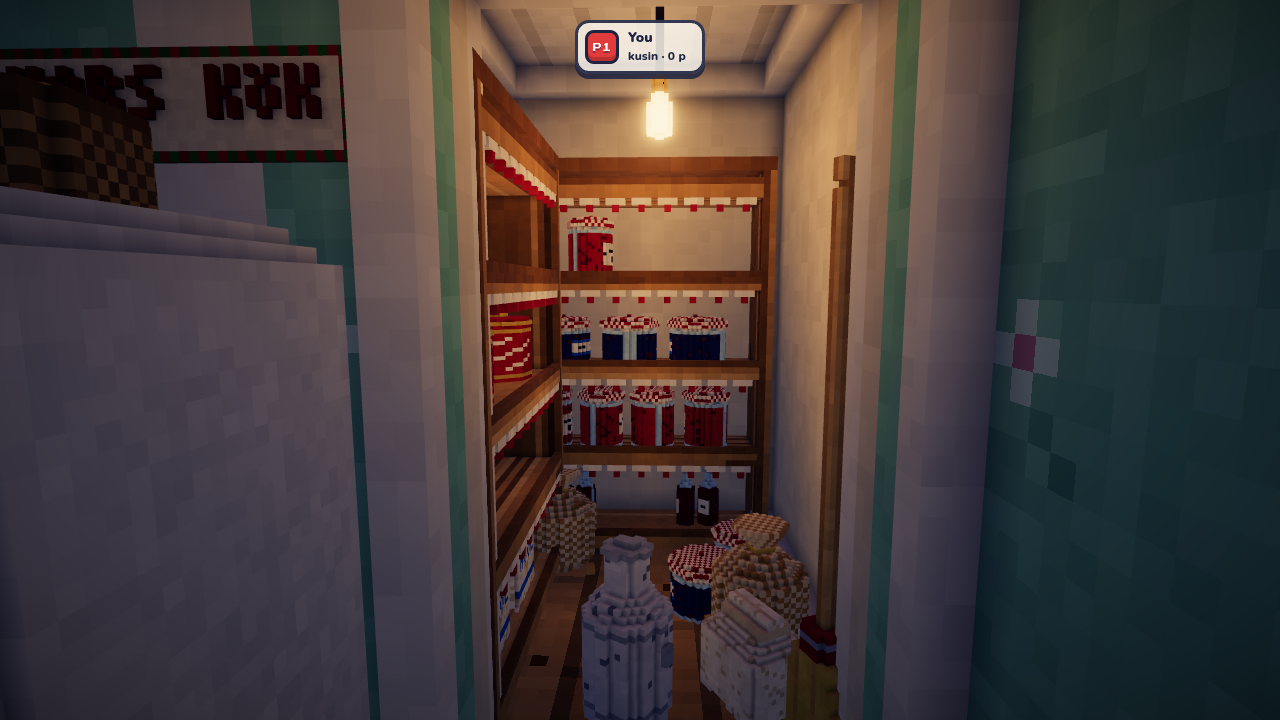
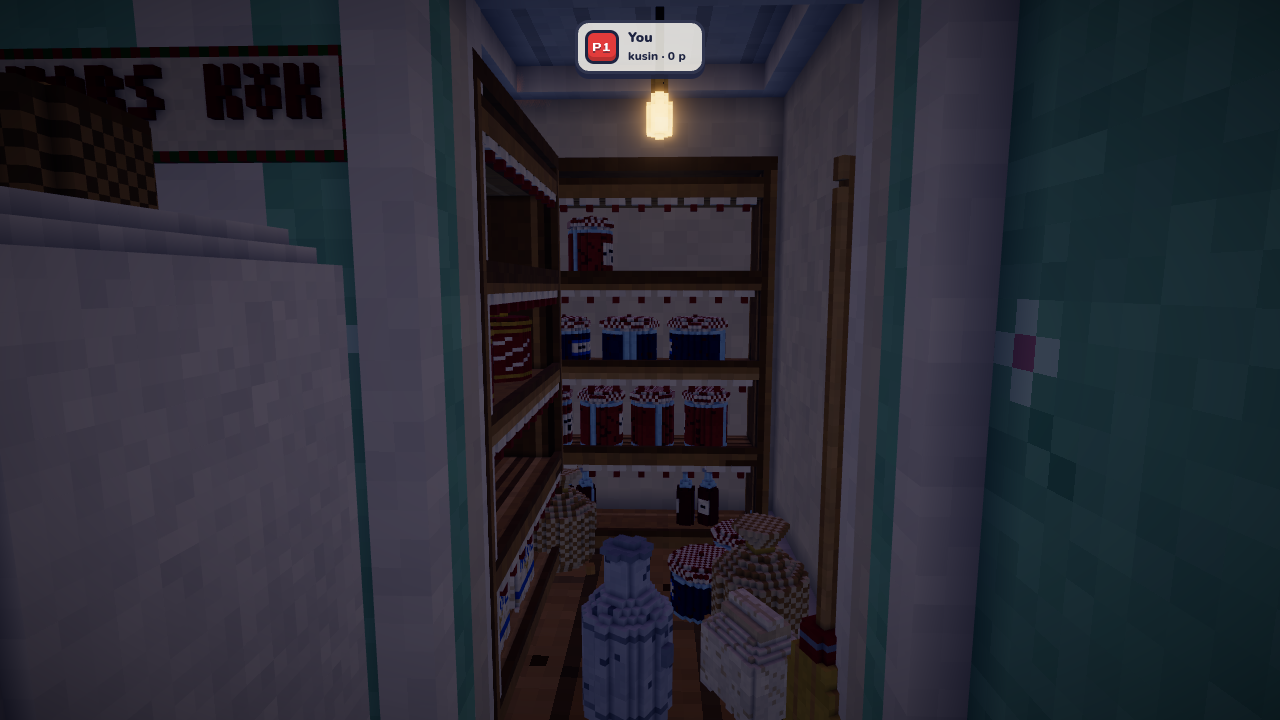
Ett blockljus för huset och jordkällaren; lyktans handtag sitter fast
A stage has one block light: the cellar's own replaced the house's and
every room went dark. Both volumes are now pieces of one light, the
lantern one of its lights.

Claude-Session: https://claude.ai/code/session_01Y6MZe7NhWEZPxEuSNh2RSa

diff --git a/scene.ts b/scene.ts
@@ -33,7 +33,6 @@ function geometry(m: Model): BufferGeometry {
 export class KitchenScene {
   readonly root = new Group();
   readonly light: BlockLight;
-  private cellarLight!: BlockLight;
   readonly kusin: Avatar;
   readonly vatte: Avatar;
   private readonly geos: BufferGeometry[] = [];
@@ -56,9 +55,13 @@ export class KitchenScene {
     hm.position.set(...HOUSE_AT);
     hm.castShadow = hm.receiveShadow = true;
     this.root.add(hm);
-    this.light = view.blockLight(house, { voxel: HV, at: { x: HOUSE_AT[0], y: HOUSE_AT[1], z: HOUSE_AT[2] } });
+    // One block light over the house and the root cellar together (a stage has one).
+    const cellar = this.buildCellar();
+    this.light = view.blockLight([
+      { vol: house, at: { x: HOUSE_AT[0], y: HOUSE_AT[1], z: HOUSE_AT[2] } },
+      { vol: cellar, at: { x: CELLAR_AT[0], y: CELLAR_AT[1], z: CELLAR_AT[2] } },
+    ], { voxel: HV });
     this.addLights();
-    this.buildCellar();
 
     this.buildGarden();
     this.buildProps();
@@ -101,6 +104,7 @@ export class KitchenScene {
     L.add({ ...L.cell(-4.5, 1.8, 10.1), color: '#ffcf8a', reach: 36, strength: 0.6, group: 1 });        // the bedroom's lamp
     L.add({ ...L.cell(-2.25, 0.85, 11.17), color: '#ffcf8a', reach: 16, strength: 0.6, group: 1 });     // the bedside lamp
     L.add({ ...L.cell(7.2, 1.8, 10.1), color: '#ffe2b0', reach: 38, strength: 0.7, group: 1 });         // the sewing room's lamp
+    L.add({ ...L.cell(-8.9, -1.55, -7.6), color: '#ffc070', reach: 30, strength: 0.95, group: 1 });      // the root cellar's lantern
     for (const [i, w] of WINDOW_LIST.entries()) {
       const mid = (w.a0 + w.a1) / 2, inside = w.out < 0 ? w.at + 0.6 : w.at - 0.35;
       const [x, z] = w.along === 'x' ? [mid, inside] : [inside, mid];
@@ -271,8 +275,8 @@ export class KitchenScene {
     }
   }
 
-  /** Jordkällaren: its own volume under the mound, lit by one lantern (dimmer group 1, like the lamps). */
-  private buildCellar() {
+  /** Jordkällaren: its own volume under the mound (lit by one lantern, in addLights). */
+  private buildCellar(): Volume {
     const { engine } = this.ctx, ids = this.ids;
     const vol = new Volume(...CELLAR_SIZE);
     for (const { b, m } of CELLAR_BOXES) {
@@ -286,8 +290,7 @@ export class KitchenScene {
     mesh.position.set(...CELLAR_AT);
     mesh.castShadow = mesh.receiveShadow = true;
     this.root.add(mesh);
-    this.cellarLight = this.view.blockLight(vol, { voxel: CV, at: { x: CELLAR_AT[0], y: CELLAR_AT[1], z: CELLAR_AT[2] } });
-    this.cellarLight.add({ ...this.cellarLight.cell(-8.9, -1.55, -7.6), color: '#ffc070', reach: 30, strength: 0.95, group: 1 });
+    return vol;
   }
 
   /**
@@ -341,7 +344,6 @@ export class KitchenScene {
     for (const k of ['exposure', 'vignette', 'saturation', 'contrast', 'shadows', 'highlights', 'split', 'tint']) delete g[k];
     Object.assign(this.view.grade, v.grade);
     this.light.dim(1, v.lamp);
-    this.cellarLight.dim(1, v.lamp);
     this.light.dim(2, v.stove);
     this.light.dim(3, v.day);
     this.light.dim(4, v.dusk);

diff --git a/models-tradgard.ts b/models-tradgard.ts
@@ -202,7 +202,10 @@ function lantern(k: Ids) {
   lathe(v, 5, 5, 0, 2, () => 4, k.STEEL);
   for (const [x, z] of [[1, 5], [9, 5], [5, 1], [5, 9]]) box(v, x, 2, z, x + 1, 11, z + 1, k.STEEL);
   lathe(v, 5, 5, 11, 13, (y) => (y === 11 ? 4 : 2.6), k.STEEL);
-  for (let i = 0; i <= 8; i++) { const a = Math.PI * (i / 8); dot(v, Math.floor(5 + Math.cos(a) * 4), Math.floor(13 + Math.sin(a) * 4), 5, k.STEEL); }
+  for (let i = 0; i < 8; i++) {
+    const a = Math.PI * (i / 8), b = Math.PI * ((i + 1) / 8);
+    line(v, [5.5 + Math.cos(a) * 3.5, 12.5 + Math.sin(a) * 4, 5.5], [5.5 + Math.cos(b) * 3.5, 12.5 + Math.sin(b) * 4, 5.5], k.STEEL);
+  }
   return prop(v, Q);
 }
 function lanternGlow(k: Ids) {
